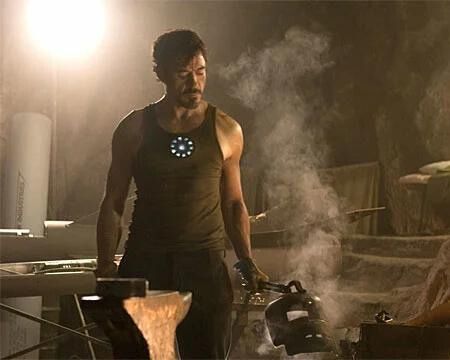
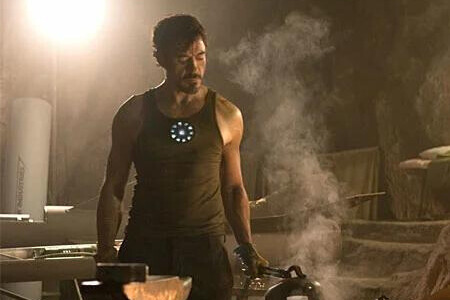
d

diff --git a/assets/css/iron-galeria.css b/assets/css/iron-galeria.css
@@ -126,6 +126,48 @@ main{
     font-family: var(--font-main);
 }
 
+.photo-1{
+    grid-row: 1 / 2;
+    /* grid-column: 1; */
+    grid-column-end: 2;
+}
+
+.photo-2{
+    grid-row: 1 / 3;
+    grid-column: 2;
+}
+
+.photo-3{
+    grid-row: 1 / 2;
+    grid-column: 3;
+}
+
+.photo-4{
+    grid-row: 2 / 3;
+    grid-column: 1;
+}
+
+.photo-5{
+    grid-row: 3 / 4;
+    grid-column: 2;
+}
+
+.photo-6{
+    grid-row: 2 / 3;
+    grid-column: 3;
+}
+
+.photo-7{
+    grid-row: 3 / 4;
+    grid-column: 1;
+}
+
+.photo-8{
+    grid-row: 3 / 4;
+    grid-column: 3;
+}
+
+
 /* galeria end */
 
 

diff --git a/index.html b/index.html
@@ -17,8 +17,8 @@
                 </a>
             </div>
             <div class="menu-container menu-container-1">
-                <a href="#">Interview</a>
-                <a href="#">News</a>
+                <a href="#">Personage</a>
+                <a href="#">Poster</a>
                 <a href="#">Wiki</a>
                 <a href="#">Gallery</a>
                 <a href="#">Trailers</a>

diff --git a/iron-galeria.html b/iron-galeria.html
@@ -54,7 +54,7 @@
                 <h5>Iron Man (2008)</h5>
             </div>
             <div class="photo-2 photo">
-                <img src="assets/img/ironman/iron-galeria-2.webp" alt="ironman">
+                <img src="assets/img/ironman/iron-galeria-2-2.jpg" alt="ironman">
                 <h5>Iron Man (2008)</h5>
             </div>
             <div class="photo-3 photo">
